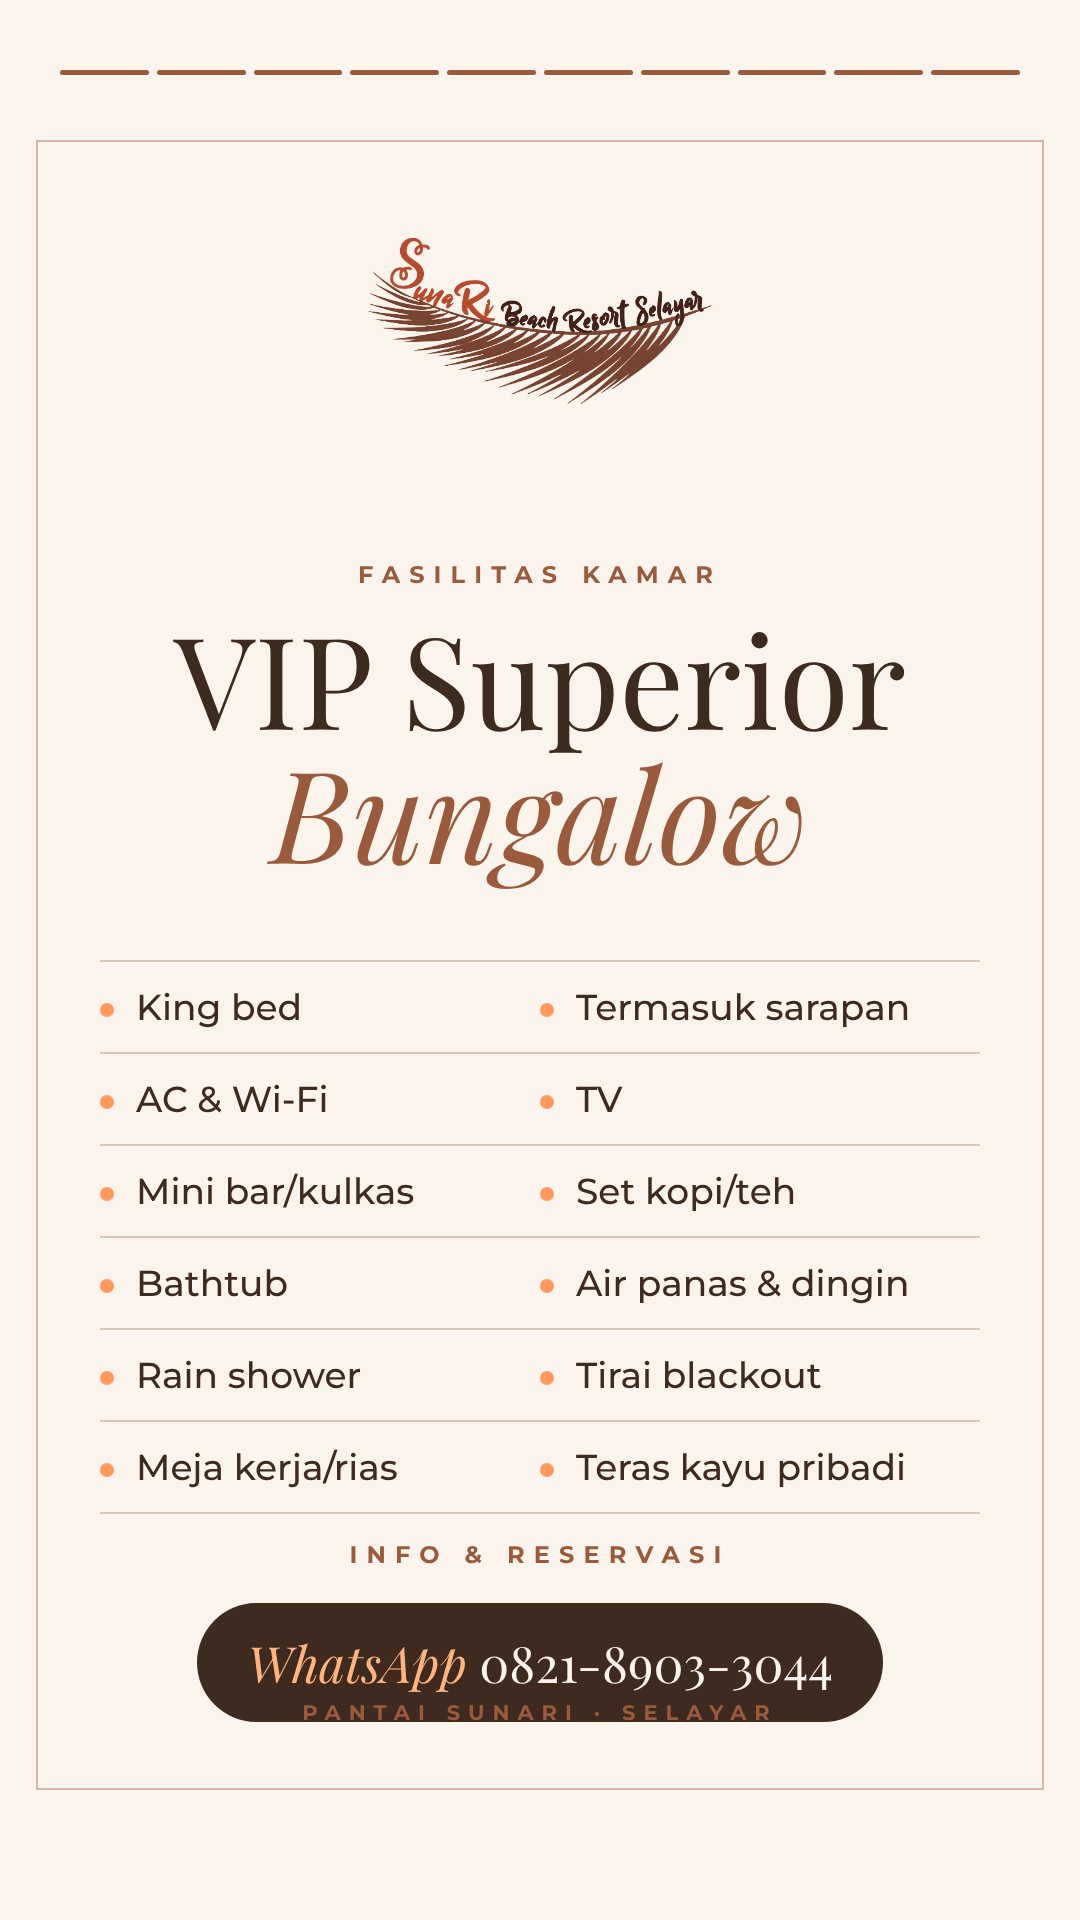
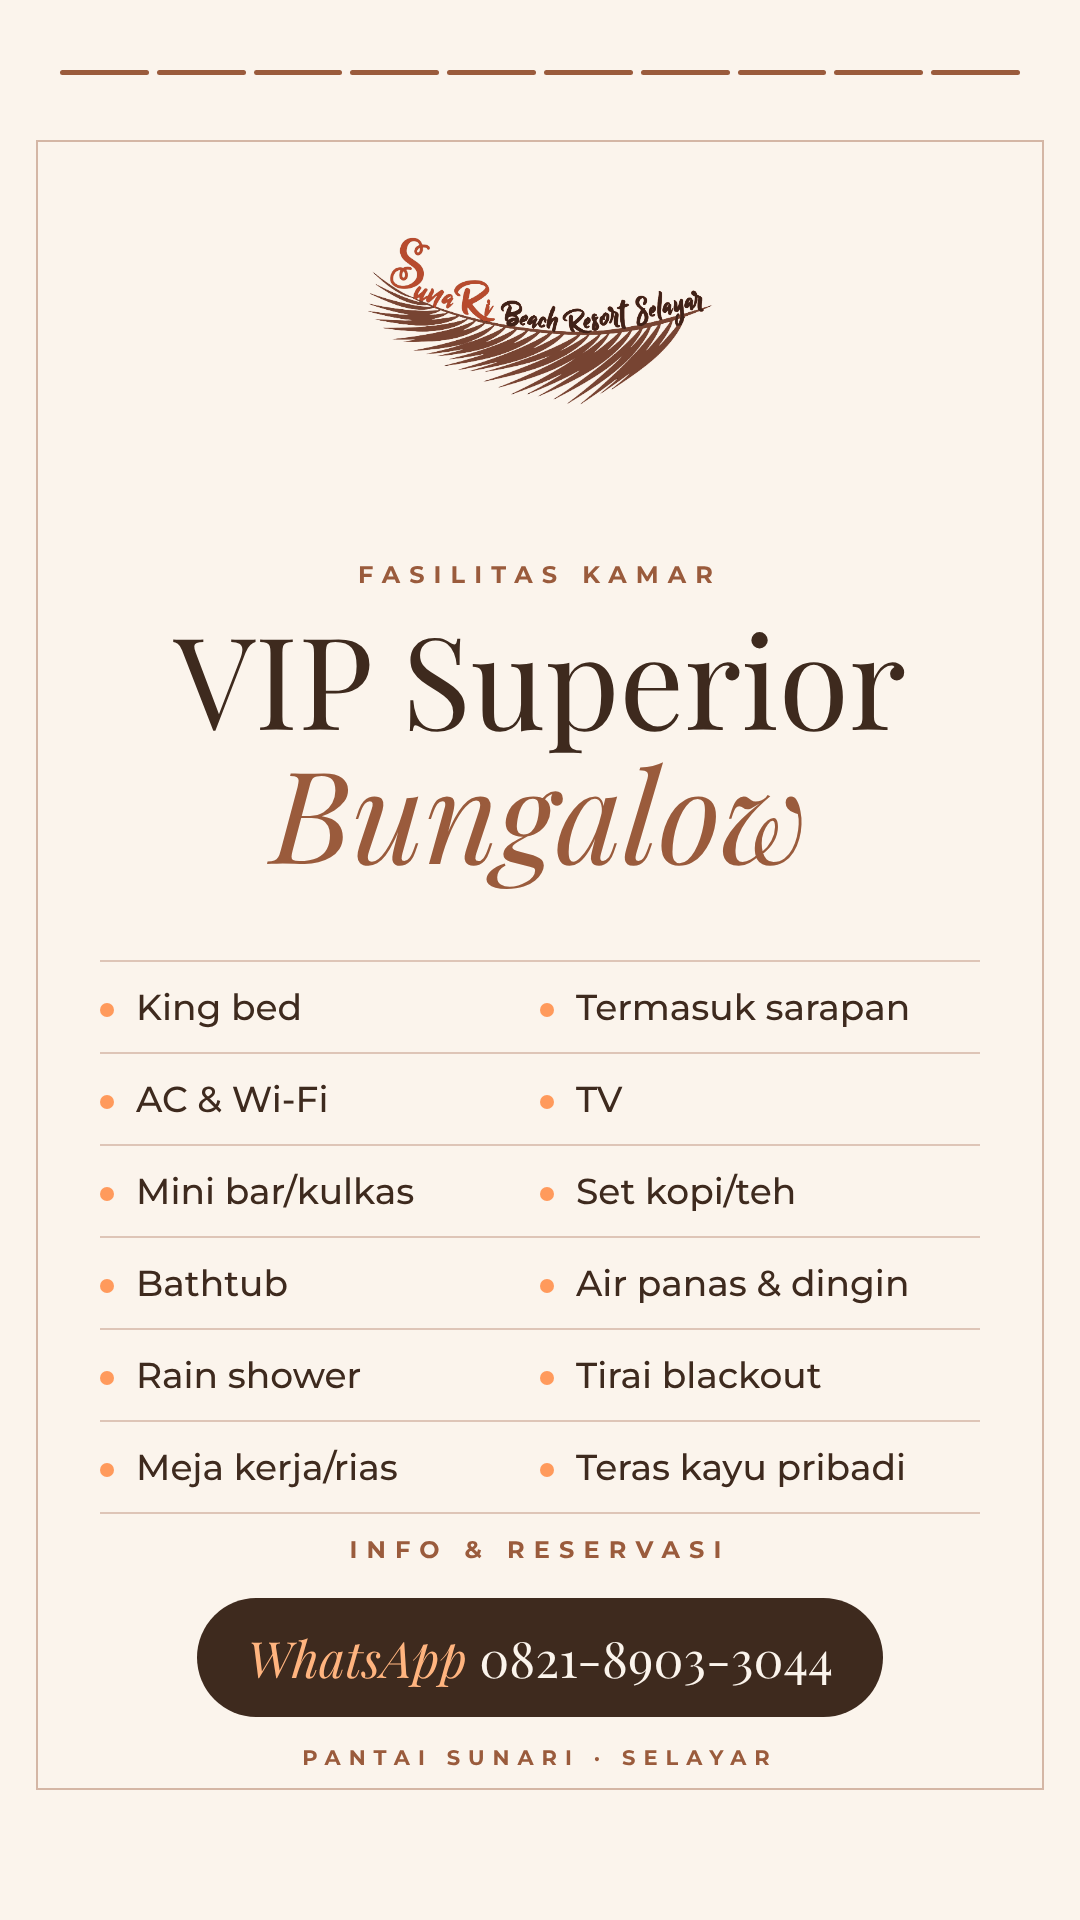
Fix closing story footer spacing
Claude-Session: https://claude.ai/code/session_01KeLc5cb3fMqE4S4hq4ZSLX

Changed region(s): [[0.2444, 0.7812, 0.7944, 0.9375], [0.4278, 0.8125, 0.4583, 0.8438], [0.3667, 0.7812, 0.3972, 0.8125]]

diff --git a/instagram-story/story-10.html b/instagram-story/story-10.html
@@ -45,5 +45,5 @@ p{font-weight:500;font-size:40px;line-height:1.5;color:#5a4030;max-width:900px}
 <div class="c eb" style="top:560px">FASILITAS KAMAR</div>
 <div class="c big" style="top:610px">VIP Superior<br><em>Bungalow</em></div>
 <div class="list"><div class="r"><span>King bed</span><span>Termasuk sarapan</span></div><div class="r"><span>AC &amp; Wi-Fi</span><span>TV</span></div><div class="r"><span>Mini bar/kulkas</span><span>Set kopi/teh</span></div><div class="r"><span>Bathtub</span><span>Air panas &amp; dingin</span></div><div class="r"><span>Rain shower</span><span>Tirai blackout</span></div><div class="r"><span>Meja kerja/rias</span><span>Teras kayu pribadi</span></div></div>
-<div class="c" style="top:1540px"><div class="eb">INFO &amp; RESERVASI</div><div class="btn"><em>WhatsApp</em> 0821-8903-3044</div></div>
-<div class="c eb" style="top:1700px;font-size:21px">PANTAI SUNARI · SELAYAR</div></body></html>
+<div class="c" style="top:1535px"><div class="eb">INFO &amp; RESERVASI</div><div class="btn"><em>WhatsApp</em> 0821-8903-3044</div></div>
+<div class="c eb" style="top:1745px;font-size:21px">PANTAI SUNARI · SELAYAR</div></body></html>

diff --git a/instagram-story/build.py b/instagram-story/build.py
@@ -88,5 +88,5 @@ page("story-10.html",f'''{prog(10)}
 <div class="c eb" style="top:560px">FASILITAS KAMAR</div>
 <div class="c big" style="top:610px">VIP Superior<br><em>Bungalow</em></div>
 <div class="list">{rows}</div>
-<div class="c" style="top:1540px"><div class="eb">INFO &amp; RESERVASI</div><div class="btn"><em>WhatsApp</em> 0821-8903-3044</div></div>
-<div class="c eb" style="top:1700px;font-size:21px">PANTAI SUNARI · SELAYAR</div>''')
+<div class="c" style="top:1535px"><div class="eb">INFO &amp; RESERVASI</div><div class="btn"><em>WhatsApp</em> 0821-8903-3044</div></div>
+<div class="c eb" style="top:1745px;font-size:21px">PANTAI SUNARI · SELAYAR</div>''')
